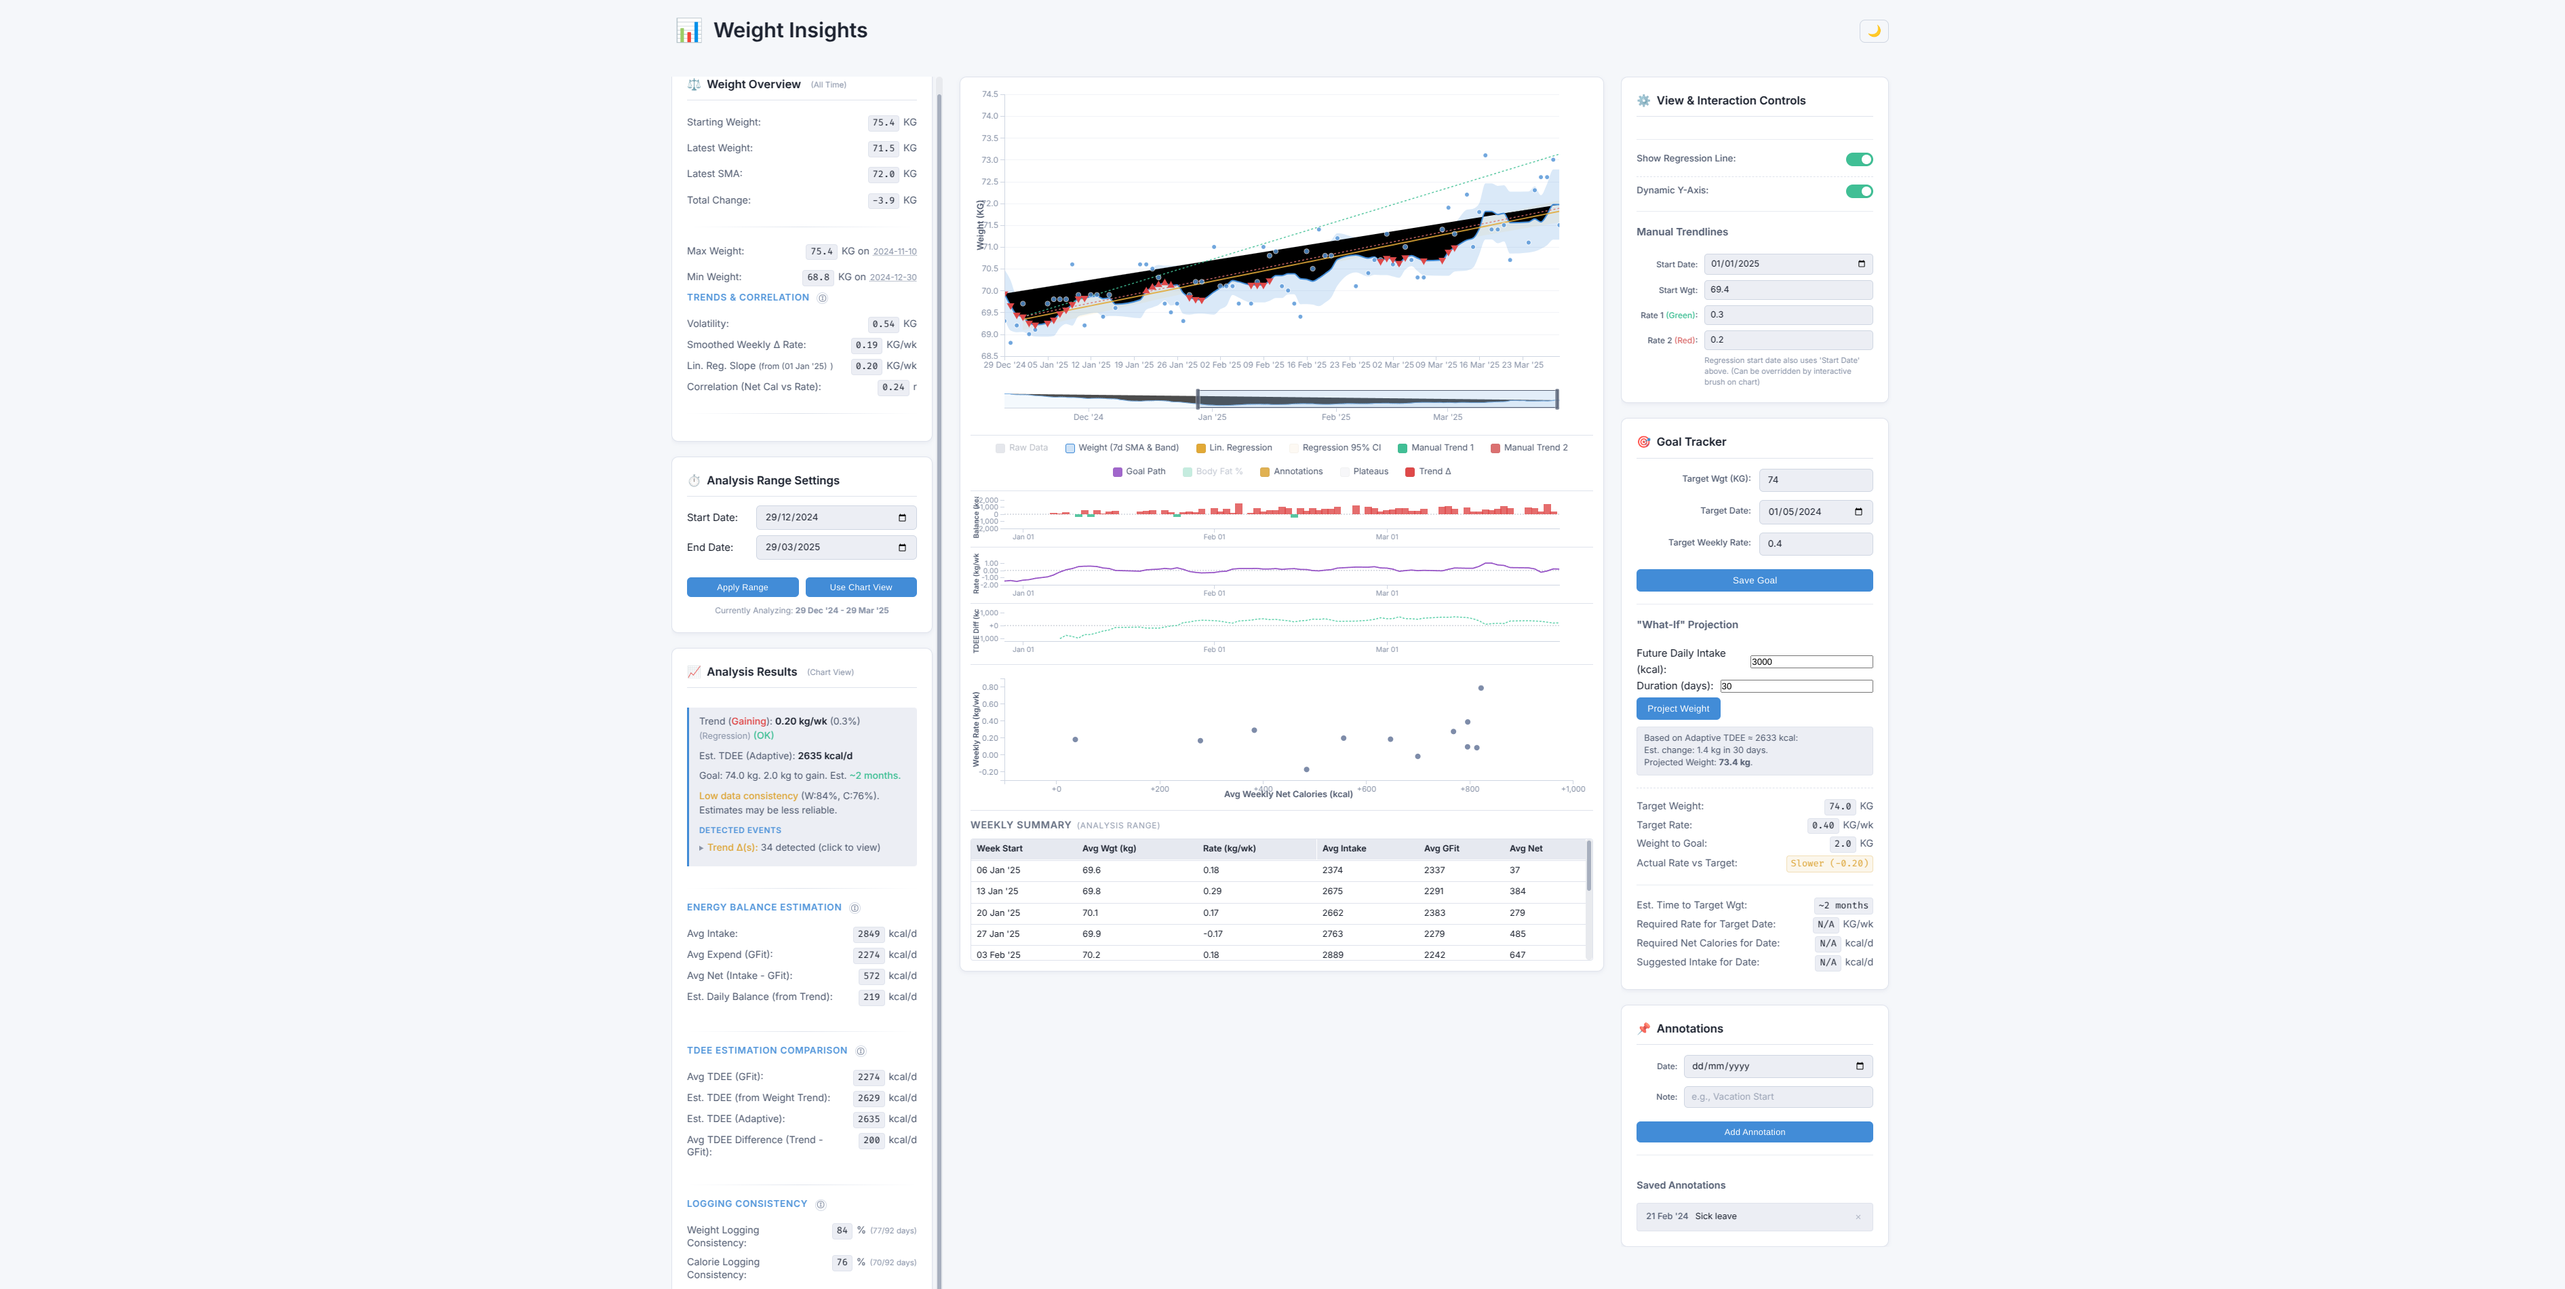
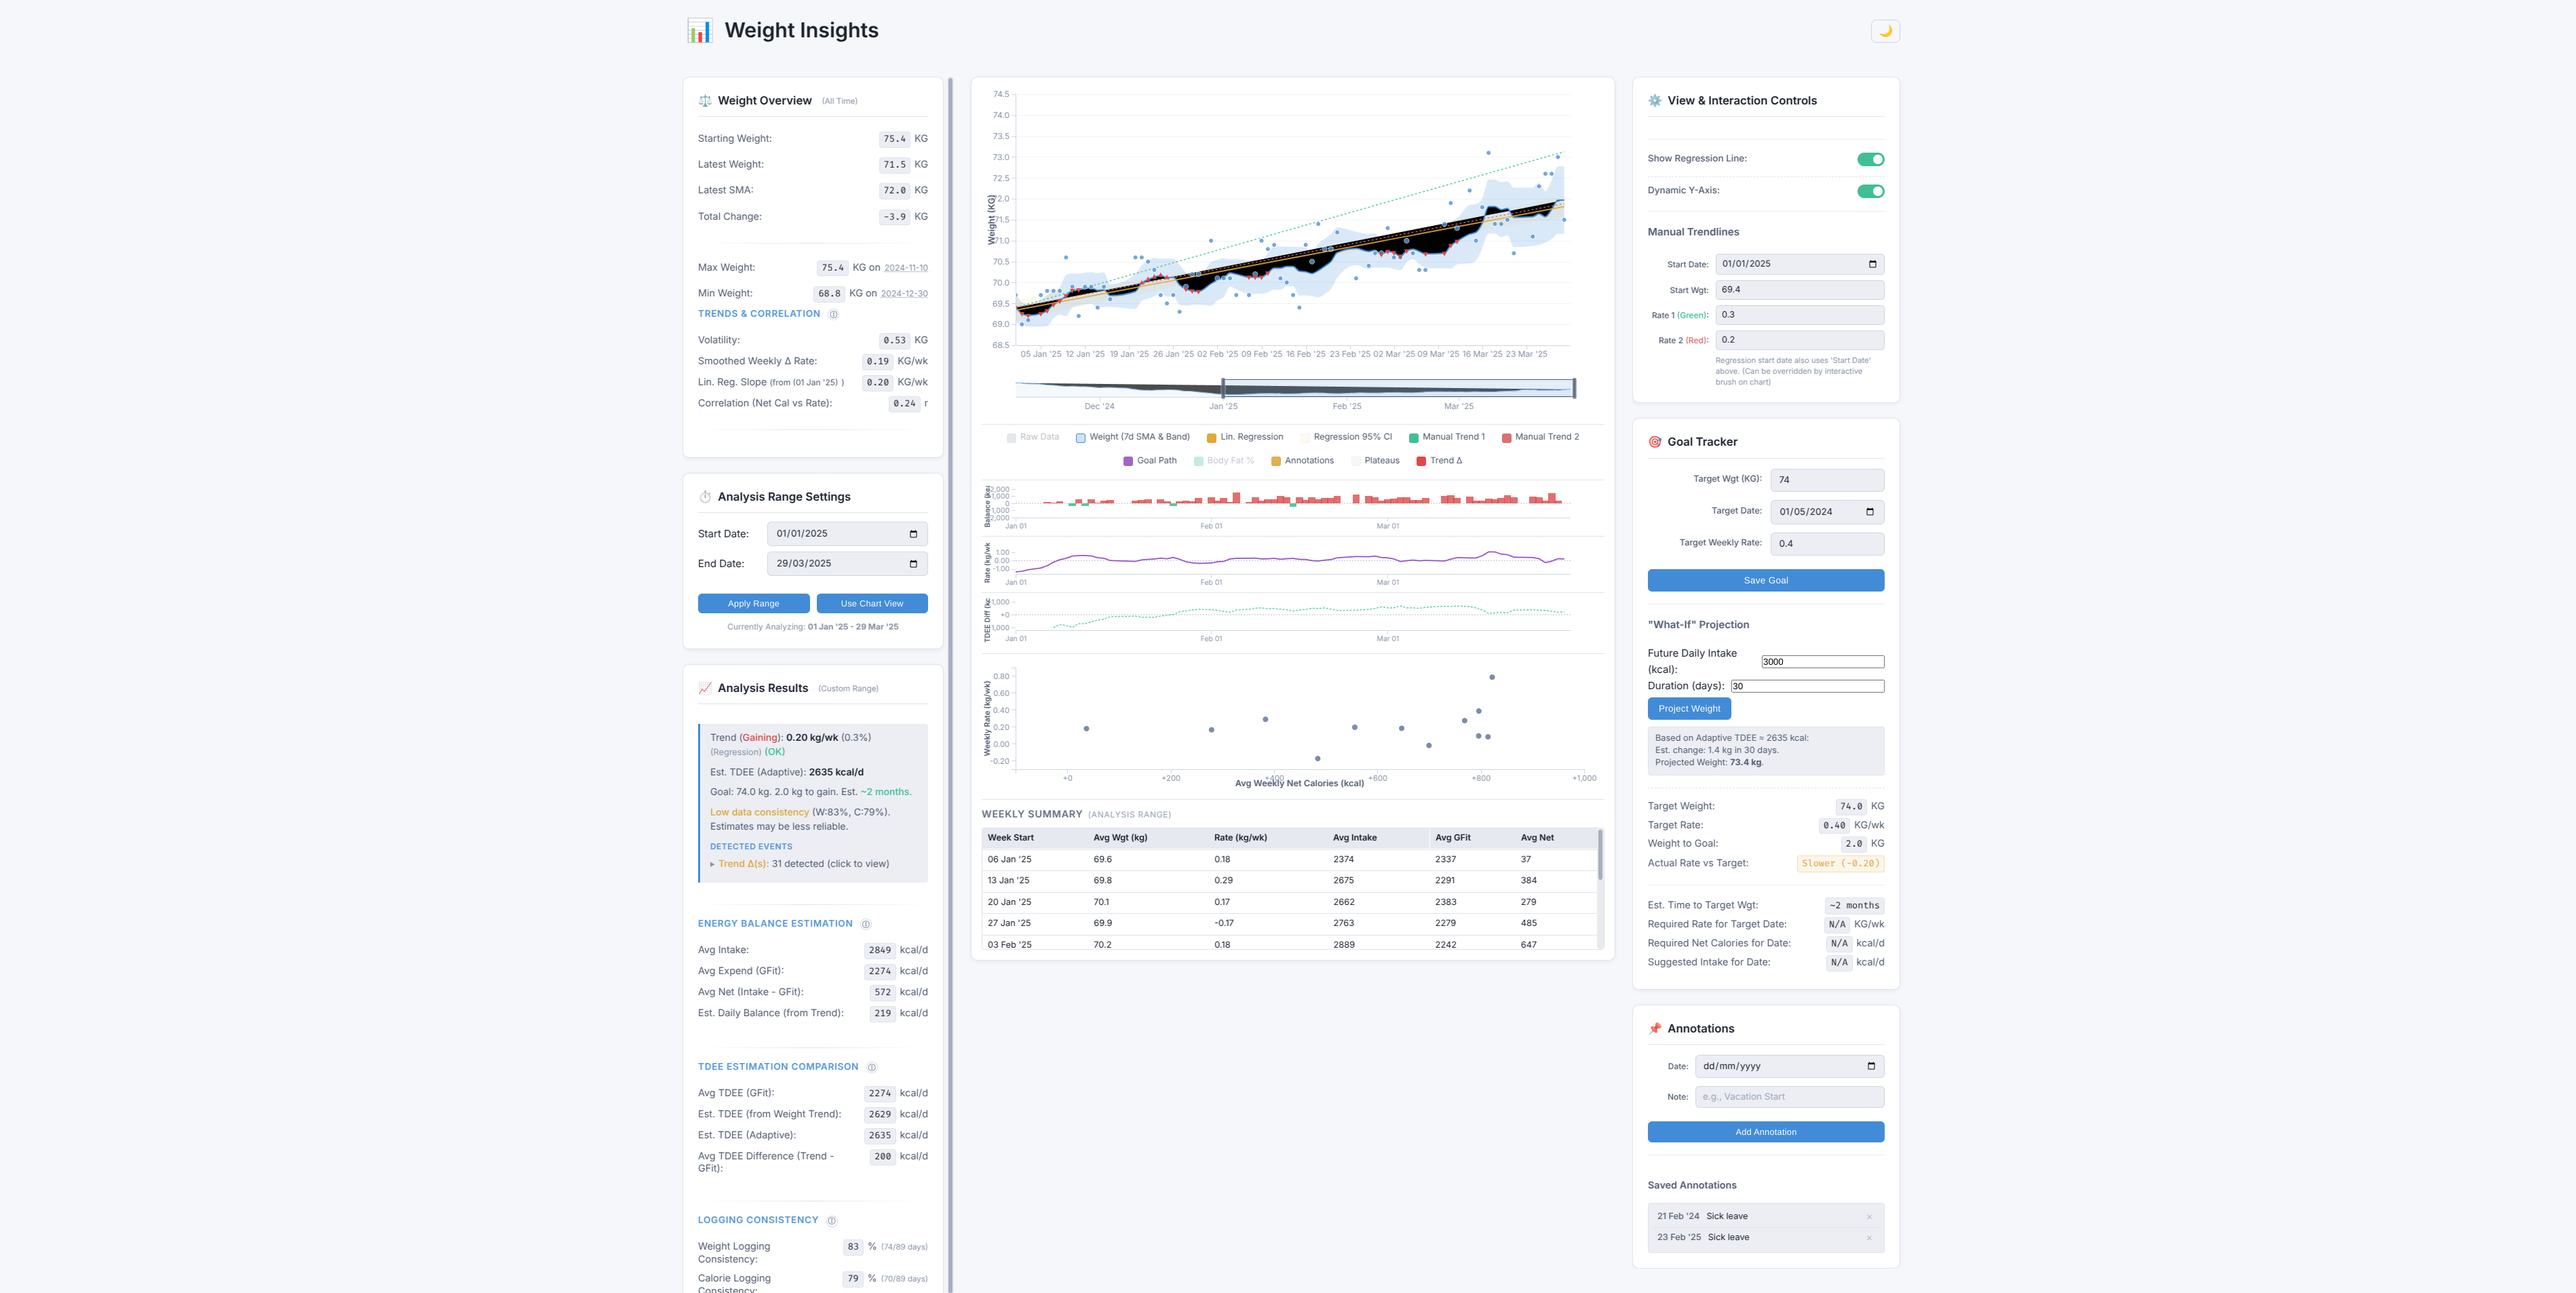
update visualisation

diff --git a/frontend/chart.js b/frontend/chart.js
@@ -2757,7 +2757,7 @@ const WeightTrackerChart = (function () {
           update
             .transition()
             .duration(dur)
-            .style("opacity", 1)
+            .style("opacity", 0.8)
             .attr("transform", (d) => {
               const yValue = findYValue(new Date(d.date));
               return yValue != null
@@ -2855,7 +2855,7 @@ const WeightTrackerChart = (function () {
       const visibleMarkers = markerData.filter(
         (p) => p.date >= xDomain[0] && p.date <= xDomain[1],
       );
-      const markerSize = 6;
+      const markerSize = 4;
       const markerPath = d3
         .symbol()
         .type(d3.symbolTriangle)
@@ -2884,7 +2884,7 @@ const WeightTrackerChart = (function () {
           group
             .on("mouseover", EventHandlers.trendChangeMouseOver)
             .on("mouseout", EventHandlers.trendChangeMouseOut);
-          group.transition().duration(dur).style("opacity", 1);
+          group.transition().duration(dur).style("opacity", 0.8);
           return group;
         },
         (update) =>
